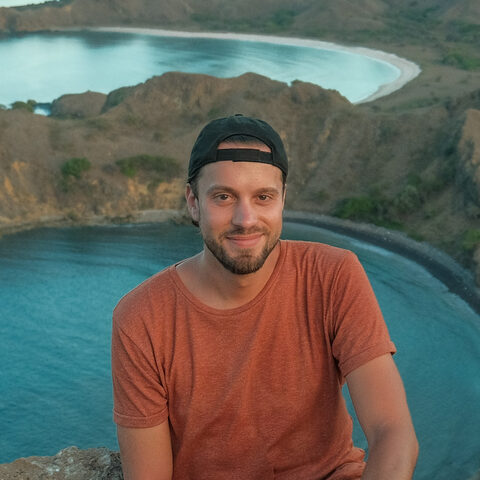
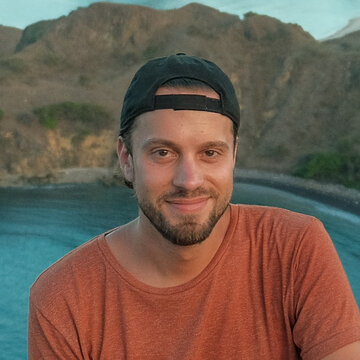
Refine copy and About page profile
- Reword the About intro
- Show photo, name, role and GitHub/LinkedIn icons as one profile block
- Remove LinkedIn from Contact
- List USD before EUR and drop the YAML mention on Services
- Correct the Git and Atlassian migration items on Work

diff --git a/assets/css/main.css b/assets/css/main.css
@@ -182,6 +182,9 @@ a { color: inherit; }
 .prose li::before { content: ""; position: absolute; left: 0.15rem; top: 0.68em; width: 0.45rem; height: 0.45rem; background: var(--gold); border-radius: 1px; }
 .prose a { color: inherit; text-decoration: underline; text-decoration-color: var(--gold); text-decoration-thickness: 2px; text-underline-offset: 0.22em; }
 .prose a:hover { color: var(--gold-text); }
+.prose a.icon-link { display: inline-flex; margin-right: 0.6rem; color: var(--muted); text-decoration: none; }
+.prose a.icon-link:hover { color: var(--text); }
+.prose a.icon-link svg { width: 1.5rem; height: 1.5rem; }
 .prose strong { font-weight: 700; }
 
 /* A paragraph that is only emphasis: technology lists and project meta lines */
@@ -190,8 +193,12 @@ a { color: inherit; }
 .prose blockquote { margin: 2rem 0; padding: 1.25rem 1.5rem; background: var(--surface); border: 1px solid var(--border); border-left: 3px solid var(--gold); border-radius: 0 var(--radius) var(--radius) 0; color: var(--muted); }
 .prose blockquote p:last-child { margin-bottom: 0; }
 
-/* Founder photo on the About page */
-.prose img[src$="patrick-hobusch.jpg"] { display: block; width: 160px; height: 160px; border-radius: 50%; object-fit: cover; border: 3px solid var(--gold); }
+/* Person block on the About page: photo with name, role and links beside it */
+.profile { display: flex; flex-wrap: wrap; align-items: center; gap: 1.25rem 1.5rem; margin: 3rem 0 2rem; padding-top: 2.5rem; border-top: 1px solid var(--border); }
+.profile img { display: block; width: 112px; height: 112px; border-radius: 50%; object-fit: cover; border: 3px solid var(--gold); }
+.prose .profile h2 { margin: 0; padding: 0; border: 0; }
+.profile-role { margin: 0.35rem 0 0.9rem; font-family: var(--mono); font-size: 0.85rem; letter-spacing: 0.08em; text-transform: uppercase; color: var(--gold-text); }
+.profile-links { margin: 0; line-height: 0; }
 
 /* Footer */
 

diff --git a/layouts/_shortcodes/profile.html b/layouts/_shortcodes/profile.html
@@ -1,0 +1,17 @@
+{{- /* Person block: photo with name, role and profile links beside it.
+       {{< profile image="/images/x.jpg" name="…" role="…" github="https://…" linkedin="https://…" >}} */ -}}
+{{- $name := .Get "name" -}}
+<div class="profile">
+  <img src="{{ .Get "image" | relURL }}" alt="{{ $name }}" width="112" height="112">
+  <div>
+    <h2 id="{{ $name | anchorize }}">{{ $name }}</h2>
+    {{ with .Get "role" }}<p class="profile-role">{{ . }}</p>{{ end }}
+    <p class="profile-links">
+      {{- range $label, $key := dict "GitHub" "github" "LinkedIn" "linkedin" }}
+      {{- with $.Get $key }}
+      <a class="icon-link" href="{{ . }}" aria-label="{{ $name }} on {{ $label }}" title="{{ $label }}" rel="noopener">{{ partial "icon.html" $key }}</a>
+      {{- end }}
+      {{- end }}
+    </p>
+  </div>
+</div>

diff --git a/content/about.md b/content/about.md
@@ -3,16 +3,12 @@ title: "About"
 description: "Deft Devs is an independent DevOps and software engineering consultancy founded by Patrick Hobusch."
 ---
 
-Deft Devs is an independent DevOps and software engineering consultancy. When you work with Deft Devs, you work directly with its founder, without account managers or handovers.
+Deft Devs is an independent DevOps and software engineering consultancy. When you work with Deft Devs, you talk directly to the engineer doing the work, without account managers or handovers.
 
-## Patrick Hobusch, Founder
-
-![Patrick Hobusch](/images/patrick-hobusch.jpg)
+{{< profile image="/images/patrick-hobusch.jpg" name="Patrick Hobusch" role="Founder" github="https://github.com/pathob" linkedin="https://www.linkedin.com/in/patrickhobusch/" >}}
 
 Patrick has been a software engineer since 2013 and has worked in DevOps since 2017. He holds an M.Sc. in Computer Science from Freie Universität Berlin.
 
 Before founding Deft Devs in 2022, he was a Principal DevOps Engineer at a consultancy serving large enterprises. There he led cloud migrations to Microsoft Azure, built CI/CD toolchains for automotive suppliers, and created open-source tools for configuring Atlassian applications as code. Most recently he served as contract CTO of an AI startup, taking its product from prototype to production. His upstream contributions include Helmfile, Renovate, NixOS and several widely used Helm charts.
 
 > I believe in sustainable software solutions that guarantee a high development pace in the long term, rather than quick-and-dirty hacks that give the illusion of fast results during project starts. I'm known for preferring standards over custom solutions, contributing to open source projects, implementing clean code and striving for high levels of automation, including automated tests. I'm capable of designing high-level software and infrastructure architectures, as well as digging into implementation details. My clients can expect real consultation from me and not just the unquestioned ticking off of to-dos.
-
-[LinkedIn](https://www.linkedin.com/in/patrickhobusch/) · [GitHub](https://github.com/pathob)

diff --git a/content/services.md b/content/services.md
@@ -11,7 +11,7 @@ Assess how your software gets from commit to production, find the bottlenecks, a
 
 ## CI/CD and Release Engineering
 
-Fast, repeatable pipelines with quality gates, automated versioning and releases, and preview environments per pull request. Shared pipeline libraries that let many teams deploy the same way without copy-pasting YAML.
+Fast, repeatable pipelines with quality gates, automated versioning and releases, and preview environments per pull request. Shared pipeline libraries that let many teams deploy the same way without duplicating pipeline code.
 
 *Jenkins, GitHub Actions, GitLab CI, Maven, Gradle, SonarQube*
 
@@ -45,6 +45,6 @@ Configuration as code, automation and migrations for Jira, Confluence and Crowd,
 
 ## How We Work
 
-- Contracts and invoices through Deft Devs LLC, in EUR, USD and other major currencies
+- Contracts and invoices through Deft Devs LLC, in USD, EUR and other major currencies
 - Remote collaboration with your team, in your tools and processes
 - NDAs signed before any confidential details are shared

diff --git a/content/work.md b/content/work.md
@@ -16,8 +16,8 @@ Development and operation of the CI/CD platform behind the company's internal so
 - Single sign-on across all services, automated end-to-end tests, and production-like anonymized test data for non-production environments
 - Shared Jenkins pipeline library with about 40 reusable steps for Helm releases, Azure Key Vault integration, database lifecycle and release approvals
 - Organization-wide automated dependency updates with self-hosted Renovate across GitHub Enterprise and GitLab
-- Migration of repositories from GitHub.com to GitHub Enterprise Cloud
-- Tooling for a Confluence migration to the cloud: merging migrated content with dry-run, undo and audit logging
+- Migration of source code hosting from TeamForge to GitLab, and later from GitLab to GitHub Enterprise Cloud
+- Tooling for the migration of Atlassian applications to the cloud: merging migrated content with dry-run, undo and audit logging
 
 ## From AI Prototype to Production App
 

diff --git a/content/contact.md b/content/contact.md
@@ -15,5 +15,4 @@ United States
 
 Managing Member: Patrick Hobusch
 
-Email: [contact@deftdevs.com](mailto:contact@deftdevs.com)\
-LinkedIn: [Deft Devs](https://www.linkedin.com/company/deftdevs)
+Email: [contact@deftdevs.com](mailto:contact@deftdevs.com)
